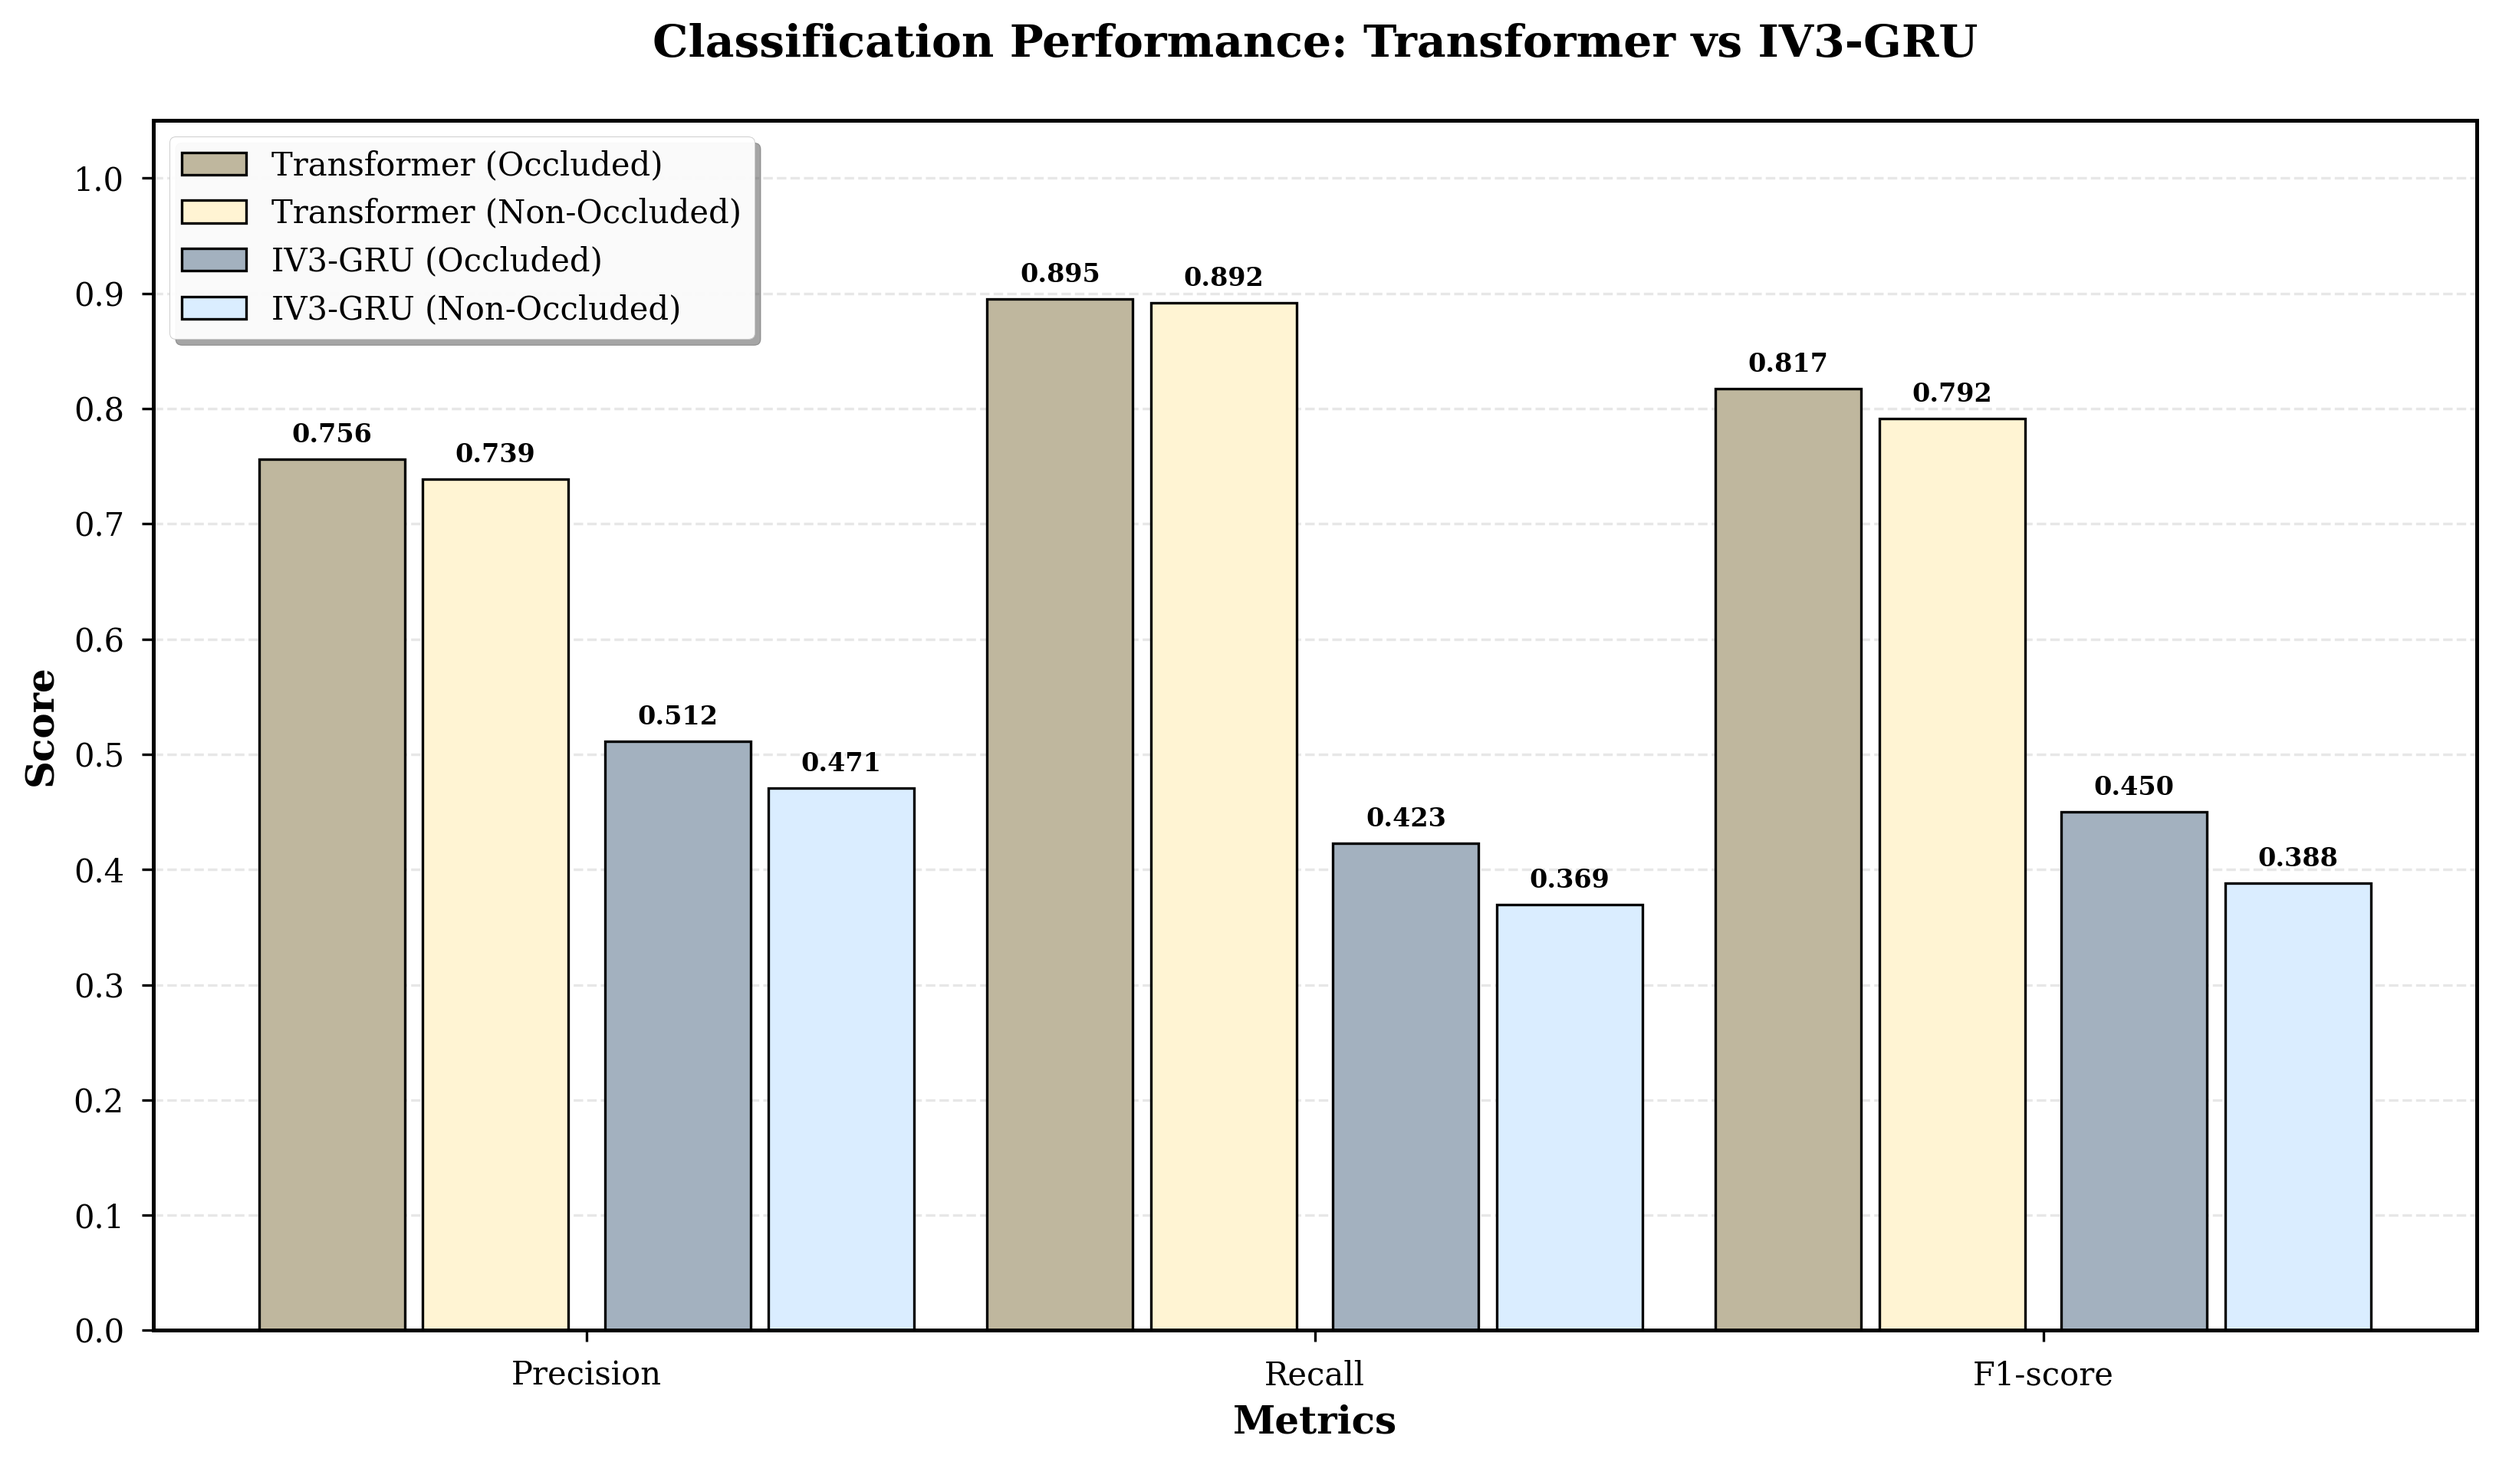
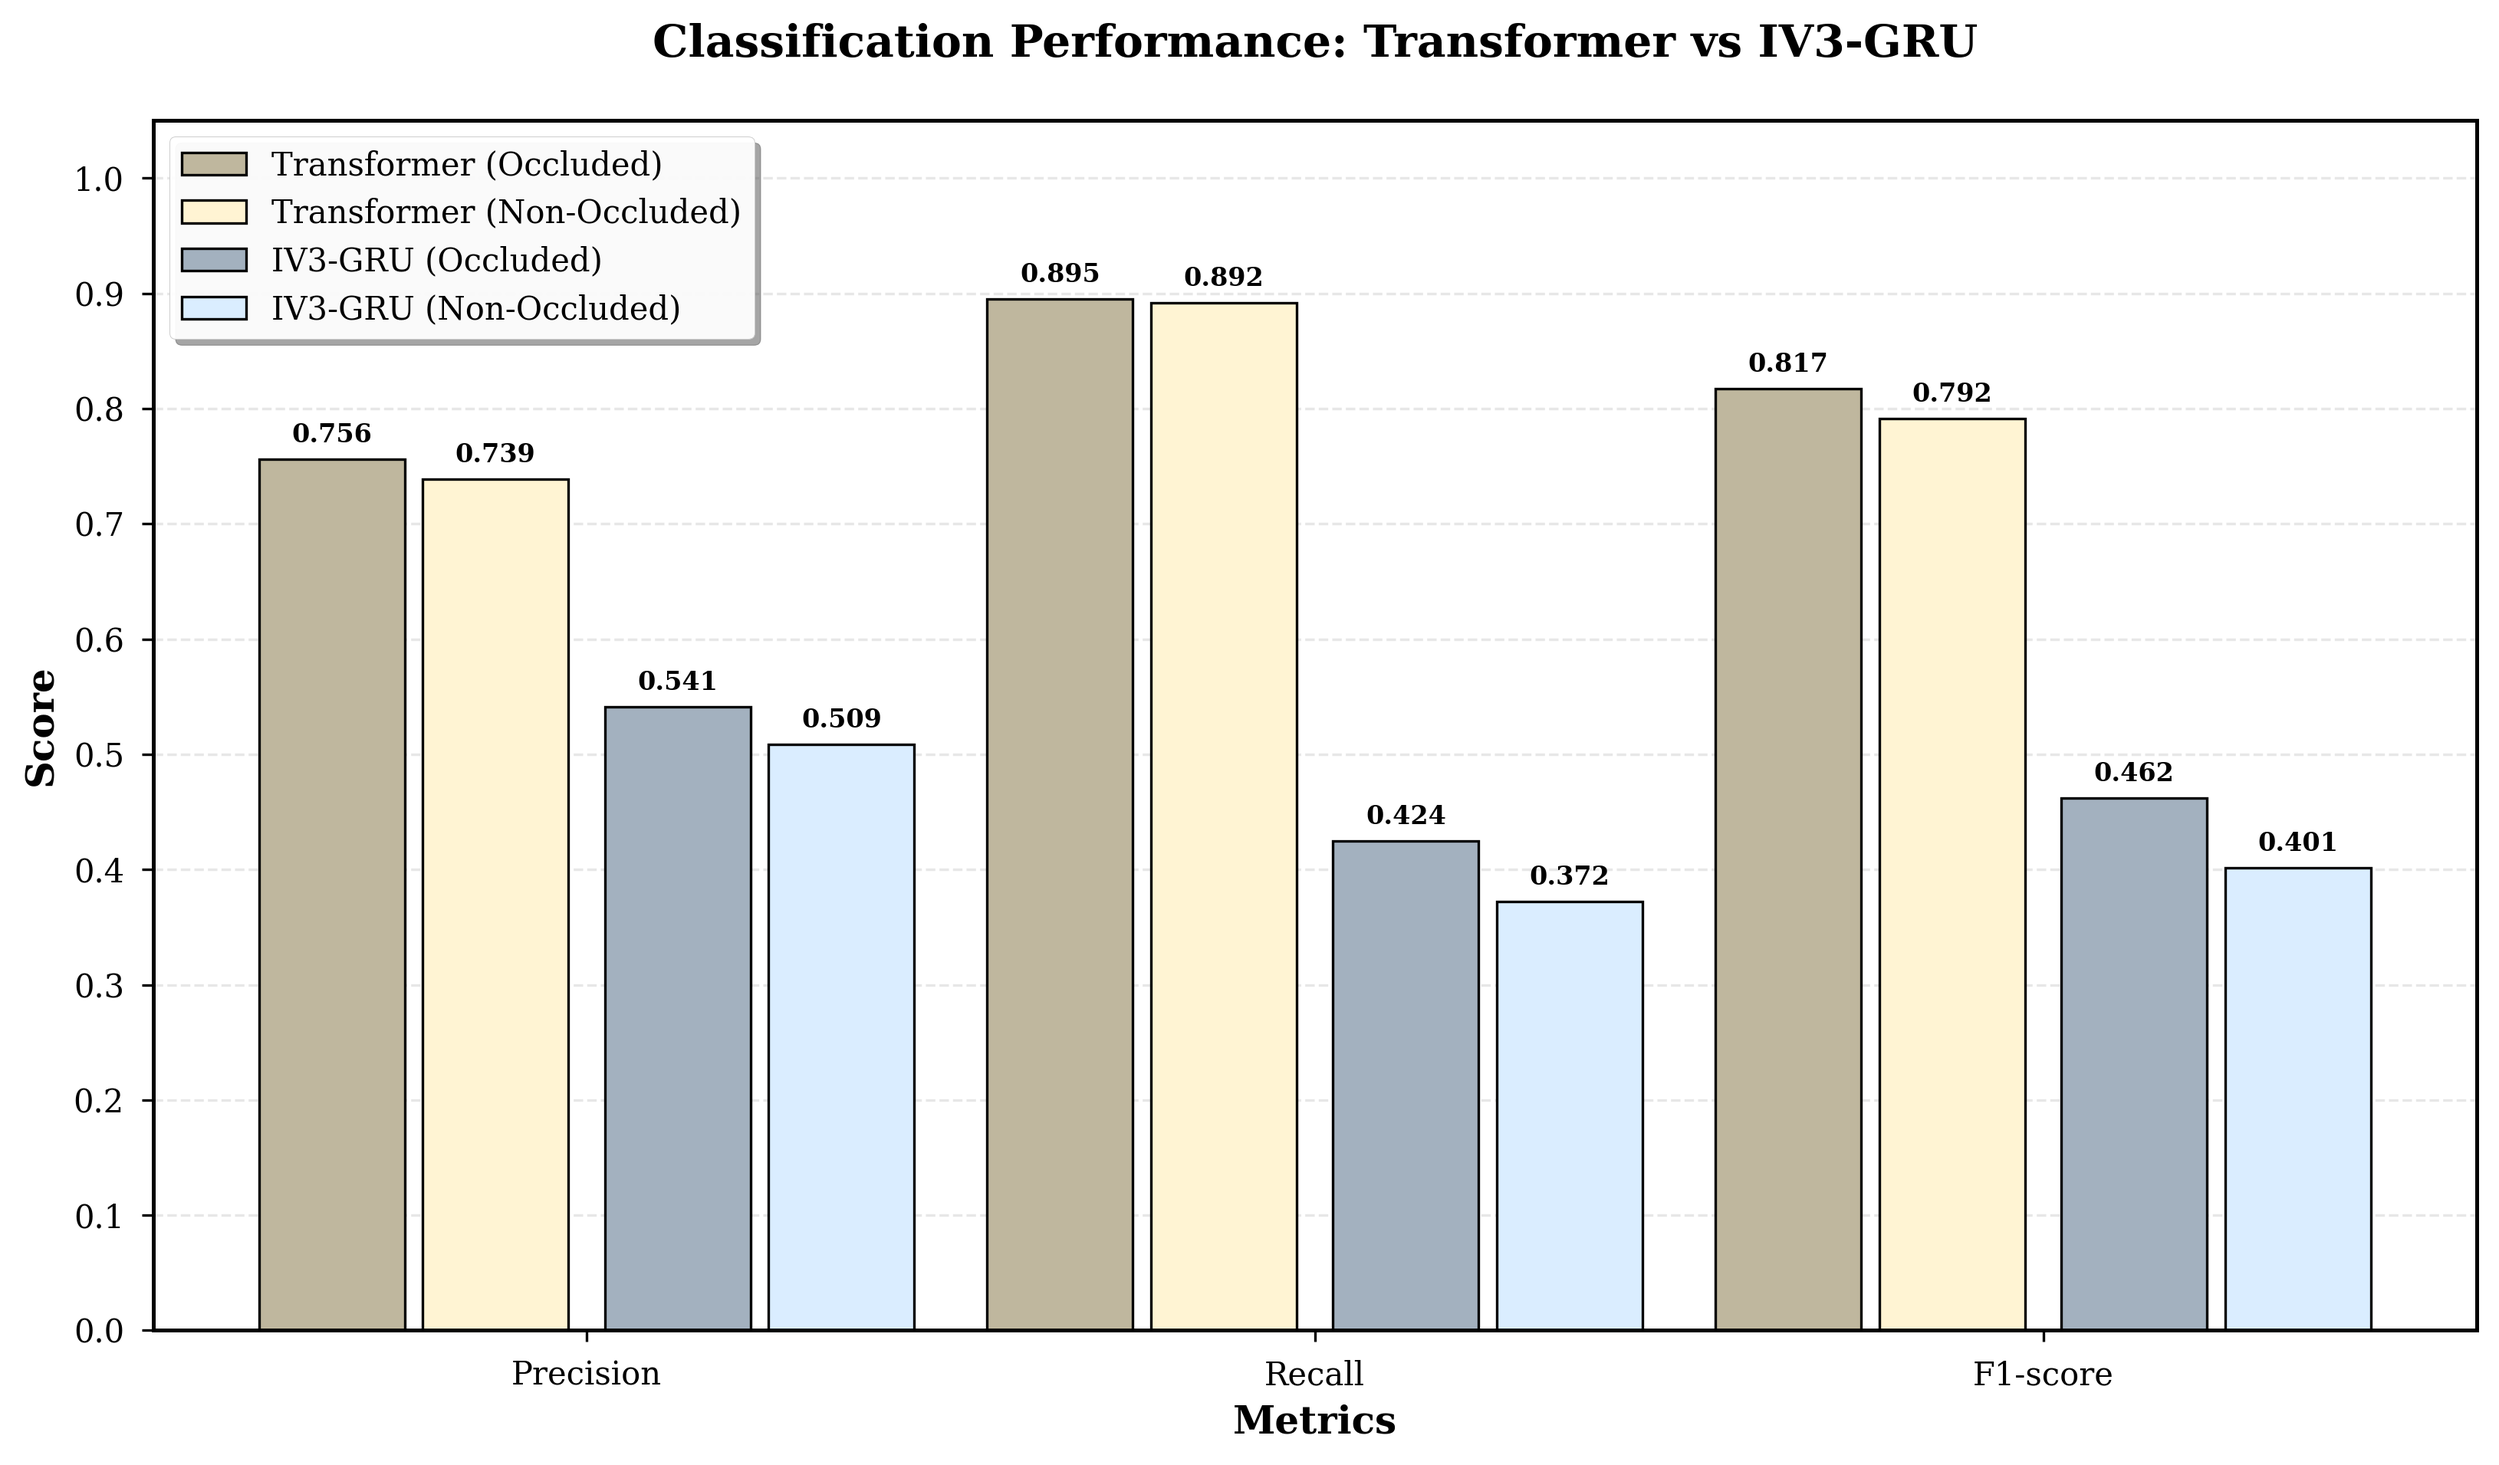
Update occlusion chart generation script and replace input CSV file paths
- Modified `create_occlusion_charts.py` to read input CSV files from the new location: `metrics/extract/mean_metrics/`.
- Updated the paths for recognition and classification metrics to ensure compatibility with the new data structure.
- Added updated binary files for occlusion comparison charts.

diff --git a/metrics/occ breakdown/create_occlusion_charts.py b/metrics/occ breakdown/create_occlusion_charts.py
@@ -11,8 +11,8 @@ Requirements:
     - numpy
     
 Input:
-    - metrics\stat test\recognition\Recognition-Mean.csv
-    - metrics\stat test\classification\Classification-Mean.csv
+    - metrics\extract\mean_metrics\recognition_mean_metrics.csv
+    - metrics\extract\mean_metrics\classification_mean_metrics.csv
     
 Output:
     Generates two PNG charts in the same directory:
@@ -207,8 +207,8 @@ def main():
         project_root = Path(__file__).parent.parent.parent
         
         # Read CSV files from new location
-        recognition_file = project_root / 'metrics' / 'stat test' / 'recognition' / 'Recognition-Mean.csv'
-        classification_file = project_root / 'metrics' / 'stat test' / 'classification' / 'Classification-Mean.csv'
+        recognition_file = project_root / 'metrics' / 'extract' / 'mean_metrics' / 'recognition_mean_metrics.csv'
+        classification_file = project_root / 'metrics' / 'extract' / 'mean_metrics' / 'classification_mean_metrics.csv'
         
         print(f"Reading recognition file: {recognition_file}")
         sys.stdout.flush()
